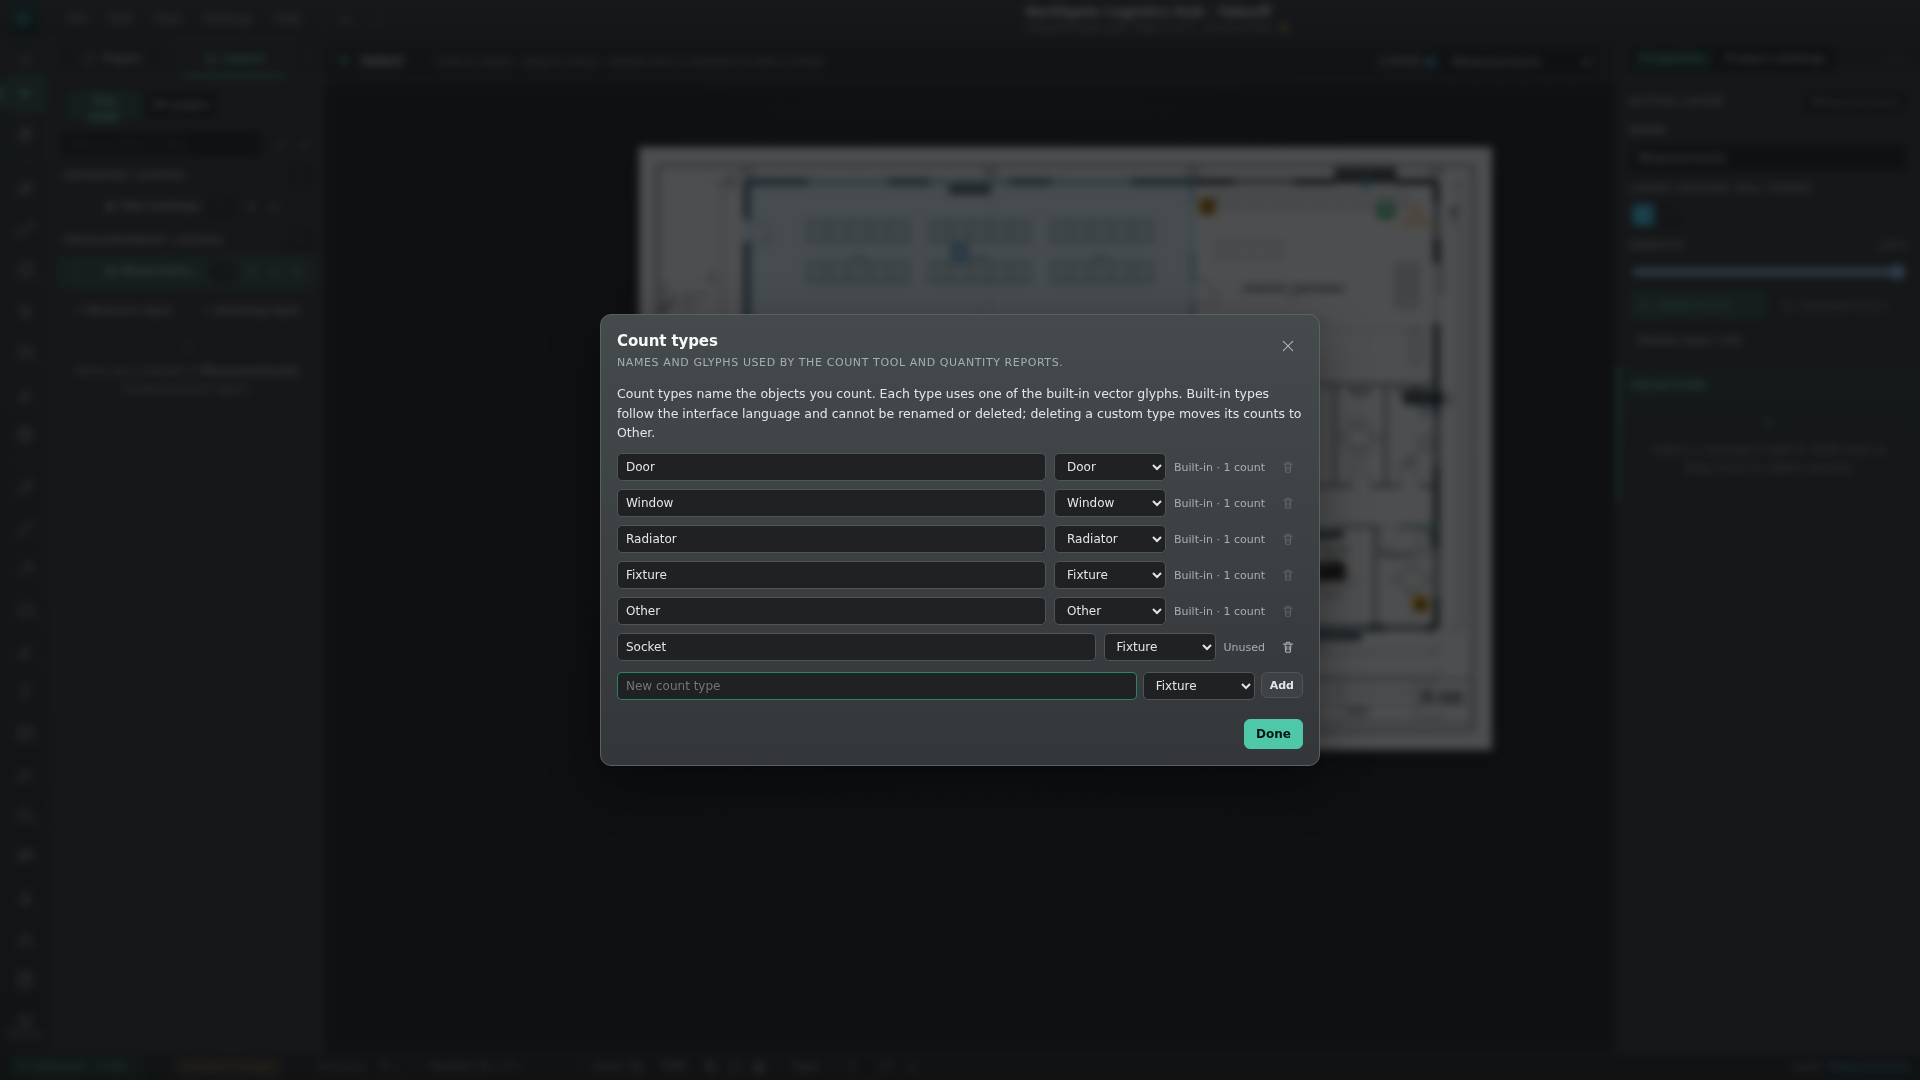
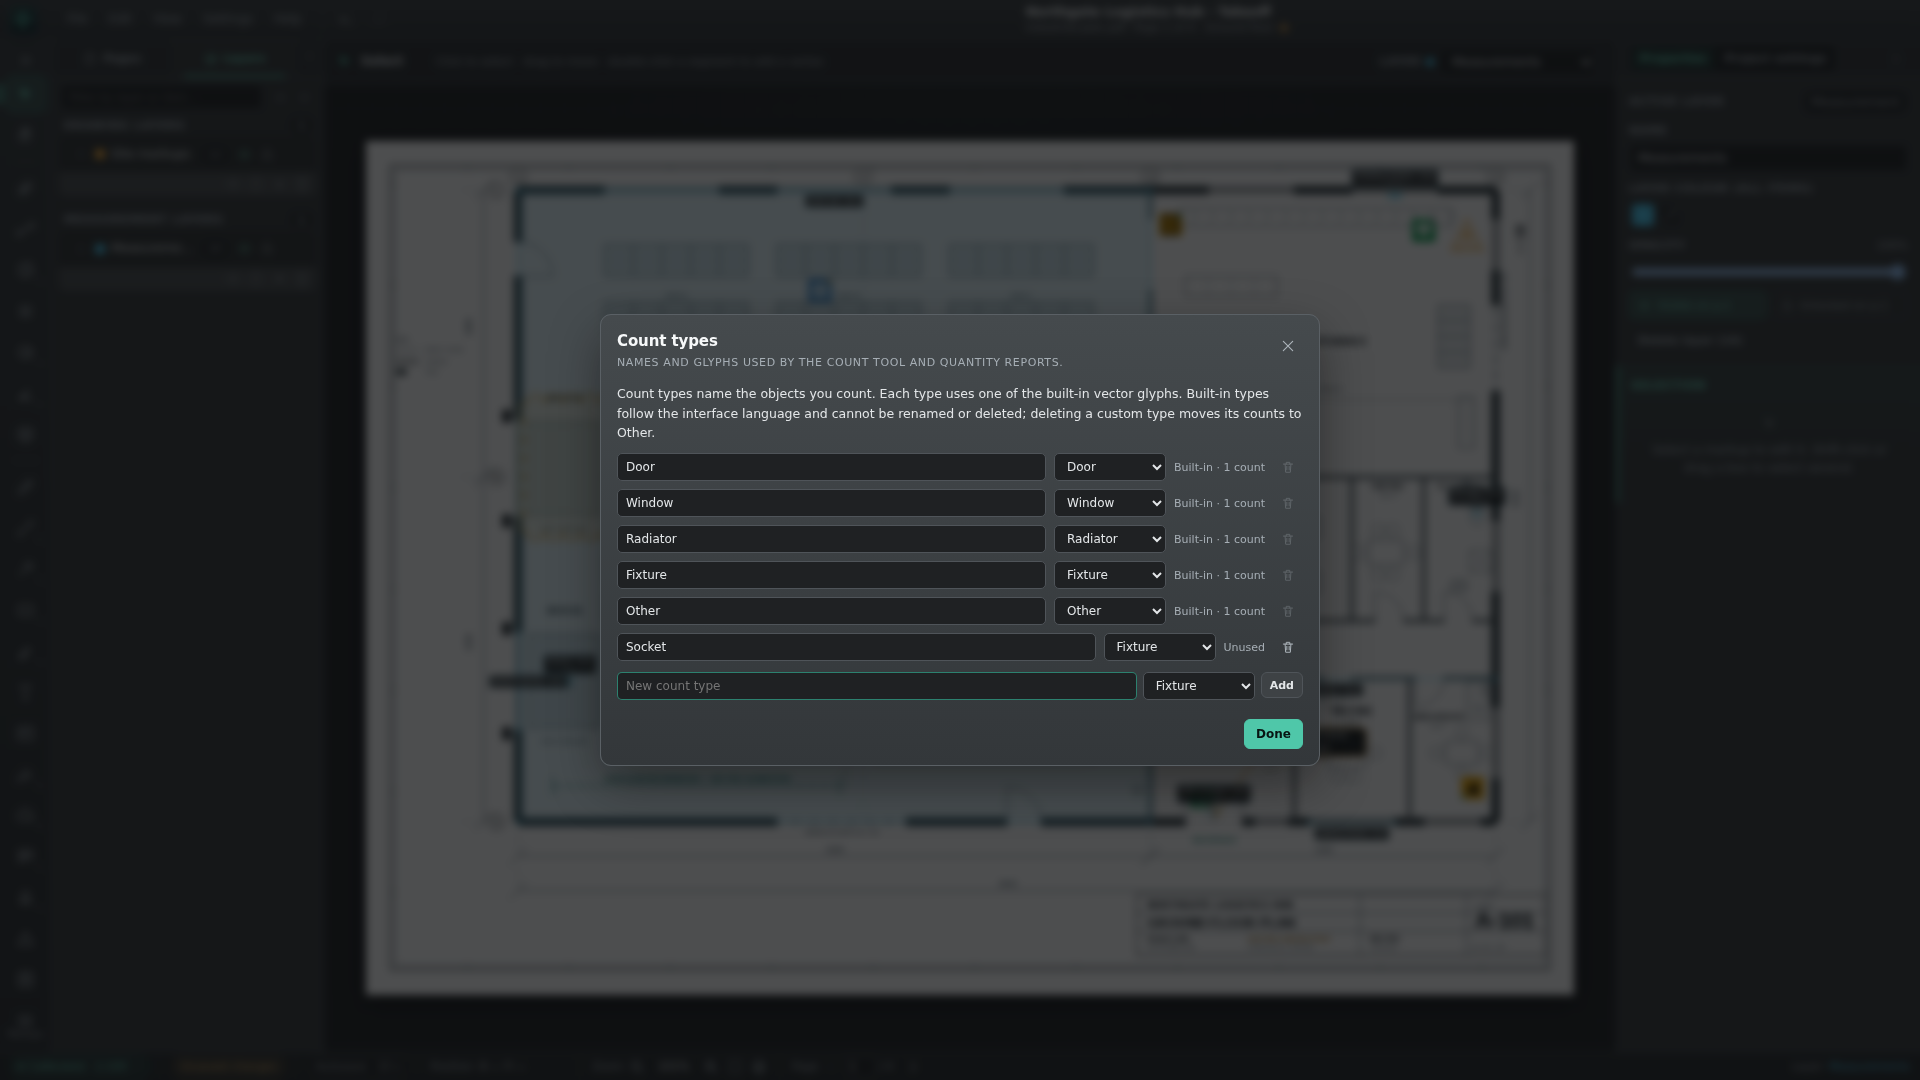
release: prepare 0.26.0

diff --git a/src/features/layerTree/controller.ts b/src/features/layerTree/controller.ts
@@ -10,6 +10,7 @@ import {
   type ListSelectMode,
 } from "../listInteraction";
 import { layerDropPreview, layerRowSpans, type LayerDropPreview } from "./dropPreview";
+import { layerRenderedSiblingIds } from "./view";
 import { layerMoveRejection, type LayerDropPlan } from "./operations";
 import { ListAutoScroll } from "./scroll";
 
@@ -227,22 +228,10 @@ export class LayerTreeController {
     return { mode: "below", targetId: siblings[index + 1] };
   }
 
-  /**
-   * Siblings as the panel shows them: the rendered rows of the same kind and
-   * parent, top to bottom. Hidden layers of another page must not sit between
-   * two visible rows, or a keyboard move could land nowhere on screen.
-   */
+  /** Siblings as the panel shows them: rendered rows of the same kind and parent. */
   private siblingIds(layerId: string): string[] {
     const project = this.options.project();
-    if (!project) return [];
-    const hierarchy = buildLayerHierarchy(project.layers);
-    const layer = hierarchy.byId.get(layerId);
-    if (!layer) return [];
-    const parentId = hierarchy.parentOfId.get(layerId) ?? null;
-    return this.renderedIds().filter((id) => {
-      const sibling = hierarchy.byId.get(id);
-      return sibling?.kind === layer.kind && (hierarchy.parentOfId.get(id) ?? null) === parentId;
-    });
+    return project ? layerRenderedSiblingIds(project, layerId, this.renderedIds()) : [];
   }
 
   private nestIntoPreviousSibling(event: KeyboardEvent, id: string): void {

diff --git a/src/features/layerTree/view.ts b/src/features/layerTree/view.ts
@@ -188,3 +188,22 @@ export function layerSiblingIds(project: Pick<Project, "layers">, layerId: strin
   const siblings = parentId ? (hierarchy.childrenOfId.get(parentId) ?? []) : hierarchy.rootIds;
   return [...siblings].reverse();
 }
+
+/**
+ * Siblings as the panel shows them: the rendered rows of the same kind and
+ * parent, in display order. Hidden layers of another page must not sit between
+ * two visible rows, or a keyboard move could land nowhere on screen.
+ */
+export function layerRenderedSiblingIds(
+  project: Pick<Project, "layers">,
+  layerId: string,
+  renderedIds: readonly string[],
+): string[] {
+  const hierarchy = buildLayerHierarchy(project.layers);
+  const layer = hierarchy.byId.get(layerId);
+  if (!layer) return [];
+  const rendered = new Set(renderedIds);
+  return layerSiblingIds(project, layerId).filter(
+    (id) => rendered.has(id) && hierarchy.byId.get(id)?.kind === layer.kind,
+  );
+}

diff --git a/src/features/layerTree/index.ts b/src/features/layerTree/index.ts
@@ -12,6 +12,7 @@ export {
   buildLayerTreeRows,
   layerAncestorRowIds,
   layerRowsWithChildren,
+  layerRenderedSiblingIds,
   layerSiblingIds,
 } from "./view";
 export type { LayerTreeRow, LayerTreeRowsOptions, LayerViewScope } from "./view";

diff --git a/docs/release-notes/0.26.0.md b/docs/release-notes/0.26.0.md
@@ -1,0 +1,127 @@
+# GridScalr 0.26.0
+
+This release makes the three busiest panels easier to read and adds a real
+operation card to the demo. The Layers panel becomes two clear sections with
+page-scoped rows, the Pages panel becomes one flat list with the source named on
+each card, and Preferences gains section cards, visible buttons and an
+always-visible scrollbar. It also fixes a focus loss caused by autosave and makes
+PDF export metadata deterministic.
+
+The project-file schema stays **26**. No migration is needed.
+
+## Download
+
+Windows portable, NSIS and MSI builds, one universal macOS DMG and app zip, and
+Linux AppImage, deb and tarball are published on the GitHub Release for
+`v0.26.0`, together with `SHA256SUMS.txt`. The builds are unsigned; see
+**Install** in the README.
+
+## Layers panel
+
+- **Two sections.** Drawing layers and measurement layers each have their own
+  header, count and action strip. The **This page / All pages** switch is gone;
+  the panel always shows the open page's layers, and a layer that only exists on
+  another page appears when that page is opened.
+- **Actions at the bottom of each section.** A plus button creates a layer of
+  that section's kind. The eye and lock buttons hide, show, lock or unlock every
+  selected layer, and the trash button deletes the selection, including a whole
+  multi-selection, as one undo step.
+- **Visible selection.** Every selected row is tinted, so a `Ctrl`/`Cmd` or
+  `Shift` selection is visible on screen. Right-click one of several selected
+  rows for **Hide selected**, **Show selected**, **Lock selected**, **Unlock
+  selected** and **Delete selected**; the action applies to the whole selection.
+- **Drag anywhere.** The grip handle is gone. Press and drag anywhere on a row,
+  including the colour swatch, folder icon or name. The colour swatch now opens
+  the colour picker on a click and starts a drag on a press-and-move. The drop
+  line still shows exactly where the row will land and marks a nest target.
+- **Search reveals items.** A search expands a layer that contains a matching
+  item and lists only the matching items, instead of filtering only on the layer
+  name.
+- **Keyboard moves follow the screen.** `Alt` + arrow moves a layer among the
+  rows that are actually shown on the page and kind, so a hidden layer on
+  another page can no longer sit between two visible rows.
+- The "Items are created in …" note is gone; the active layer stays visible in
+  the context bar and Properties.
+
+## Pages panel
+
+- **One flat ordered list.** Document headings are replaced by a source line with
+  a file icon on each card. The line appears only when the project uses more
+  than one source drawing.
+- **Clearer card.** `Sida 1 · 1191 × 842 pt` replaces `p.1 · …`, the page number
+  is drawn on the thumbnail, and a template sheet is labelled **Mall** instead
+  of **Blad**.
+- **Filters only when needed.** The status filter row appears only when a page
+  has a problem, and then shows **All** plus the problem types that match pages.
+  A project with no problems shows no empty chips.
+- **View options on the Pages tab.** Right-click the **Pages** tab for **Group by
+  source**, **Show source on cards** and **Show page numbers on thumbnails**.
+  The choices are stored per machine. Grouping is a view of the same ordered
+  page list and never changes the page order.
+
+## Settings and Preferences
+
+- Each settings section is a card with a heading bar, border and consistent
+  padding. Buttons are visible instead of ghost text, and destructive actions
+  keep the red outline.
+- The category pane scrolls on its own with an always-visible scrollbar, while
+  the category menu stays in place. The scrollbar is drawn by the app so it does
+  not depend on the platform's overlay scrollbars.
+- Data is split into **Autosave recovery**, **Rolling backups**, **Recovery
+  data** and **Recent projects and drawings**. Recovery status is shown as
+  chips, and the recent-file list has one row per file with a **Remove** action
+  and a **Missing** chip.
+
+## Demo project
+
+The bundled demo now has a fourth page: an A3 operation card sheet (`LB01`) with
+**146 objects** on four drawing layers and one measurement layer, including
+schematics for a heat exchanger, fans, valves, dampers and ducts. The demo also
+gains a template document, and the title row names the current page's source
+drawing. The demo is still generated reproducibly with `npm run docs:demo`.
+
+Two unused documents, an embedded TIF that no page referenced and a network
+source path were removed from the supplied project before it became the demo.
+
+## Fixes
+
+- **Autosave no longer steals focus.** Every autosave refresh used to re-render
+  the whole shell, replacing the focused field once per interval. A summary
+  refresh now re-renders only when no project is open, so typing in Properties or
+  a panel field is not interrupted.
+- **Deterministic PDF export.** Export metadata is written from the project's
+  timestamp instead of the wall clock, so two exports of the same project are
+  byte-identical (F-043).
+- The welcome screen now offers **New project…**, which opens the same source
+  chooser as **File → New project…**, including the empty-project start.
+
+## Known and accepted issues
+
+The accepted issues from 0.25.0 are unchanged. In addition, the Pages list still
+renders at most 400 cards (F-075), and the recorded audit follow-ups remain open:
+[#199](https://github.com/MajorJohnDoe/gridscalr/issues/199),
+[#200](https://github.com/MajorJohnDoe/gridscalr/issues/200) and
+[#201](https://github.com/MajorJohnDoe/gridscalr/issues/201).
+
+## Upgrade notes
+
+- Schema 26 is unchanged from 0.25.0. Projects saved by 0.25.0 open directly.
+- Page-list grouping and the source line are per-machine view options, not
+  project data and not part of a package.
+- The demo now has four pages; a previously copied demo folder in the app data
+  directory keeps its old copy until it is deleted.
+
+## Verification
+
+- The frontend suite, the seeded `tests/robustness/` sequences and the schema
+  1–26 migration corpus.
+- `npm run test:ui`, `npm run test:csp` and the focused UI suites for the changed
+  panels.
+- `check:versions`, `check:dependencies`, `check:security`,
+  `GRIDSCALR_DOCS_STRICT=1 check:docs`, `check:file-budgets`, `check:modules`,
+  `check:i18n`, `check:themes`, `format:check`, `lint`, `tsc --noEmit` and
+  `build`.
+- Rust formatting, `cargo check` and the Rust unit tests.
+
+The builds are unsigned. Verify downloads with `SHA256SUMS.txt` and follow the
+SmartScreen or Gatekeeper instructions in the README.

diff --git a/AGENTS.md b/AGENTS.md
@@ -8,8 +8,8 @@ Persistent working instructions for agents and maintainers of GridScalr. Read th
 - Frontend: TypeScript, HTML5 Canvas, PDF.js, Vite. No UI framework.
 - Desktop shell: Rust/Tauri 2.
 - Repository: `https://github.com/MajorJohnDoe/gridscalr` (public).
-- Current app version: `0.25.0`.
-- Latest public release: `v0.25.0` (2026-11-12).
+- Current app version: `0.26.0`.
+- Latest public release: `v0.26.0` (2026-11-12).
 - Current project-file schema: `26`.
 - 1.0 is a quality gate, not a schedule: Windows, macOS and Linux artifacts; English and Swedish UI; portable `.gridscalr.zip` packages; tested large-project performance; production-ready save, recovery and source handling. See `docs/roadmap.md` and `docs/adr/`.
 - Milestones 1–5 are complete. Milestone 2A added categories, rooms, the count tool, deduction areas, the quantities panel, and measurement bulk edits. Milestone 2B added waste, rounding, order quantities, and quantity CSV/PDF reports. Milestone 3A added quick areas, manual scale, per-page scale locks, and markup snapping. Milestone 3B added the drawing export dialog with page ranges, crop areas, layer selection, labels, calibration, and a legend. Milestone 4 added embedded PNG/JPEG images, background and annotation modes, image handles, opacity, rotation, and image-aware PDF export. Milestone 5 added scanned TIF import as lossless CCITT G3/G4 pages, multiple source documents per project, append-only page numbering, and schema v6.
@@ -744,7 +744,8 @@ When adding a layer or item operation, put lock and visibility semantics in `src
 - **Foundation Phase 4:** complete — explicit reference and managed-copy source storage, verified copies in `<project>.drawings/`, **Consolidate drawings…**, **Use managed copy**, **Detach from source**, the source-changed banner with Reload/Use current/Relink/Copy into project, cloud and network import recommendations, and managed drawings included once in packages. Schema 25 adds `storage`, `originalPath` and `originalSha256`; schema 24 projects migrate to reference without moving a file. No app version bump.
 - **Foundation Phase 5:** complete — shared `validateProject()` referential-integrity rules, a load report with dropped/repaired codes, pre-save validation and serialize → parse → write round-trip verification, the **Project doctor** with read-only open, explicit duplicate-ID/dangling-reference/stale-OCR repairs, repaired-copy save and path-free diagnostics, plus an import preflight and optional page provenance. Schema stays 25; provenance is additive and optional. No app version bump.
 - **Foundation Phase 6:** complete — opt-in PDF optional-content-group export for visible project layers, opt-in review-only standard PDF annotations, a real read-only **Compare with disk version** in the save conflict dialog using the revision comparison engine, and **Share project package…** as the single share action with managed drawings included once. Flattened PDF stays the deterministic default. No schema change; the schema remains 25. No app version bump.
-- **0.25.0:** implemented, release not cut — Pages and workspace: page drag-and-drop and keyboard reorder, PDF/TIF drop on the Pages panel, undoable reorder and insert, page status badges and filters, the page context menu, one shared Pages/Layers/Markups interaction model, import provenance, doctor source availability with explicit managed-copy cleanup and a repair preview, layer hierarchy in schema 26 with the Layers panel tree and nested optional-content export, TIF **Replace source…** with raw-byte provenance hashes, extra TIF codecs, relink in the import preflight, and the Rust source-budget and model-boundary gates. The app version stays 0.24.0 until the release is prepared; see `docs/release-notes/0.25.0.md` and `docs/plan/0.25-handover.md`.
+- **0.25.0:** complete (released 2026-11-12) — Pages and workspace: page drag-and-drop and keyboard reorder, PDF/TIF drop on the Pages panel, undoable reorder and insert, page status badges and filters, the page context menu, one shared Pages/Layers/Markups interaction model, import provenance, doctor source availability with explicit managed-copy cleanup and a repair preview, layer hierarchy in schema 26 with the Layers panel tree and nested optional-content export, TIF **Replace source…** with raw-byte provenance hashes, extra TIF codecs, relink in the import preflight, and the Rust source-budget and model-boundary gates. See `docs/release-notes/0.25.0.md` and `docs/plan/0.25-handover.md`.
+- **0.26.0:** complete (released 2026-11-12) — Panels and demo: page-scoped Layers sections with per-section add/bulk actions and visible selection, drag anywhere including the colour swatch, search that reveals matching items, a flat Pages list with source lines, page numbers, a **Mall** badge and tab view options (group by source, source line, page numbers), Preferences section cards with an always-visible scrollbar, the autosave focus fix, deterministic PDF export metadata, and an operation card demo page. Schema stays 26; see `docs/release-notes/0.26.0.md`.
 
 Update the status in `docs/roadmap.md` when a milestone is completed. The current
 focus is the foundation workstreams in `docs/roadmap.md`, not a 1.0 date.

diff --git a/docs/roadmap.md b/docs/roadmap.md
@@ -5,7 +5,7 @@ workstreams, the release quality gate and the backlog. It is not a schedule.
 Detailed planning documents live in `docs/plan/`; the historical
 implementation plans are in [`docs/plan/archive/`](plan/archive/README.md).
 
-Current version: **0.25.0** · Project-file schema: **26**
+Current version: **0.26.0** · Project-file schema: **26**
 
 1.0 is a **quality gate**, not a target date. Work is organised by foundation
 workstreams so the product can release many versions while the base becomes
@@ -78,6 +78,7 @@ These are not negotiable without an explicit decision:
 | 0.23.0 | Foundation: conditional saves and backups, scoped recovery and leases, stable page IDs (schema 24), managed source copies (schema 25), integrity doctor, OCG/annotation export and robustness gates | Complete | v25 |
 | 0.24.0 | File safety completed: security audit and CSP/capability hardening, path and package limits, dependency advisory gate, adversarial corpus, autosave preference, recovery center and byte budget, backup manager with relative-link restore, true view-only, status popover and conflicted-copy management | Complete | v25 |
 | 0.25.0 | Pages and workspace: page drag-and-drop and keyboard reorder, PDF/TIF drop on Pages, undoable reorder and insert, page status badges and filters, page context menu, one shared list interaction model, import provenance, doctor sources with managed-copy cleanup and repair preview, layer hierarchy with nested OCG export (schema 26), TIF **Replace source…** and extra codecs, preflight relink, Rust source budget and model-boundary gates | Complete | v26 |
+| 0.26.0 | Panels and demo: Layers sections with bulk actions and page-scoped drag/search, flat Pages list with source lines and view options, Preferences cards and a visible scrollbar, autosave focus fix, deterministic PDF metadata, and an operation card page in the demo | Complete | v26 |
 
 Schema history and migration rules are documented in
 [`project-file.md`](project-file.md).
